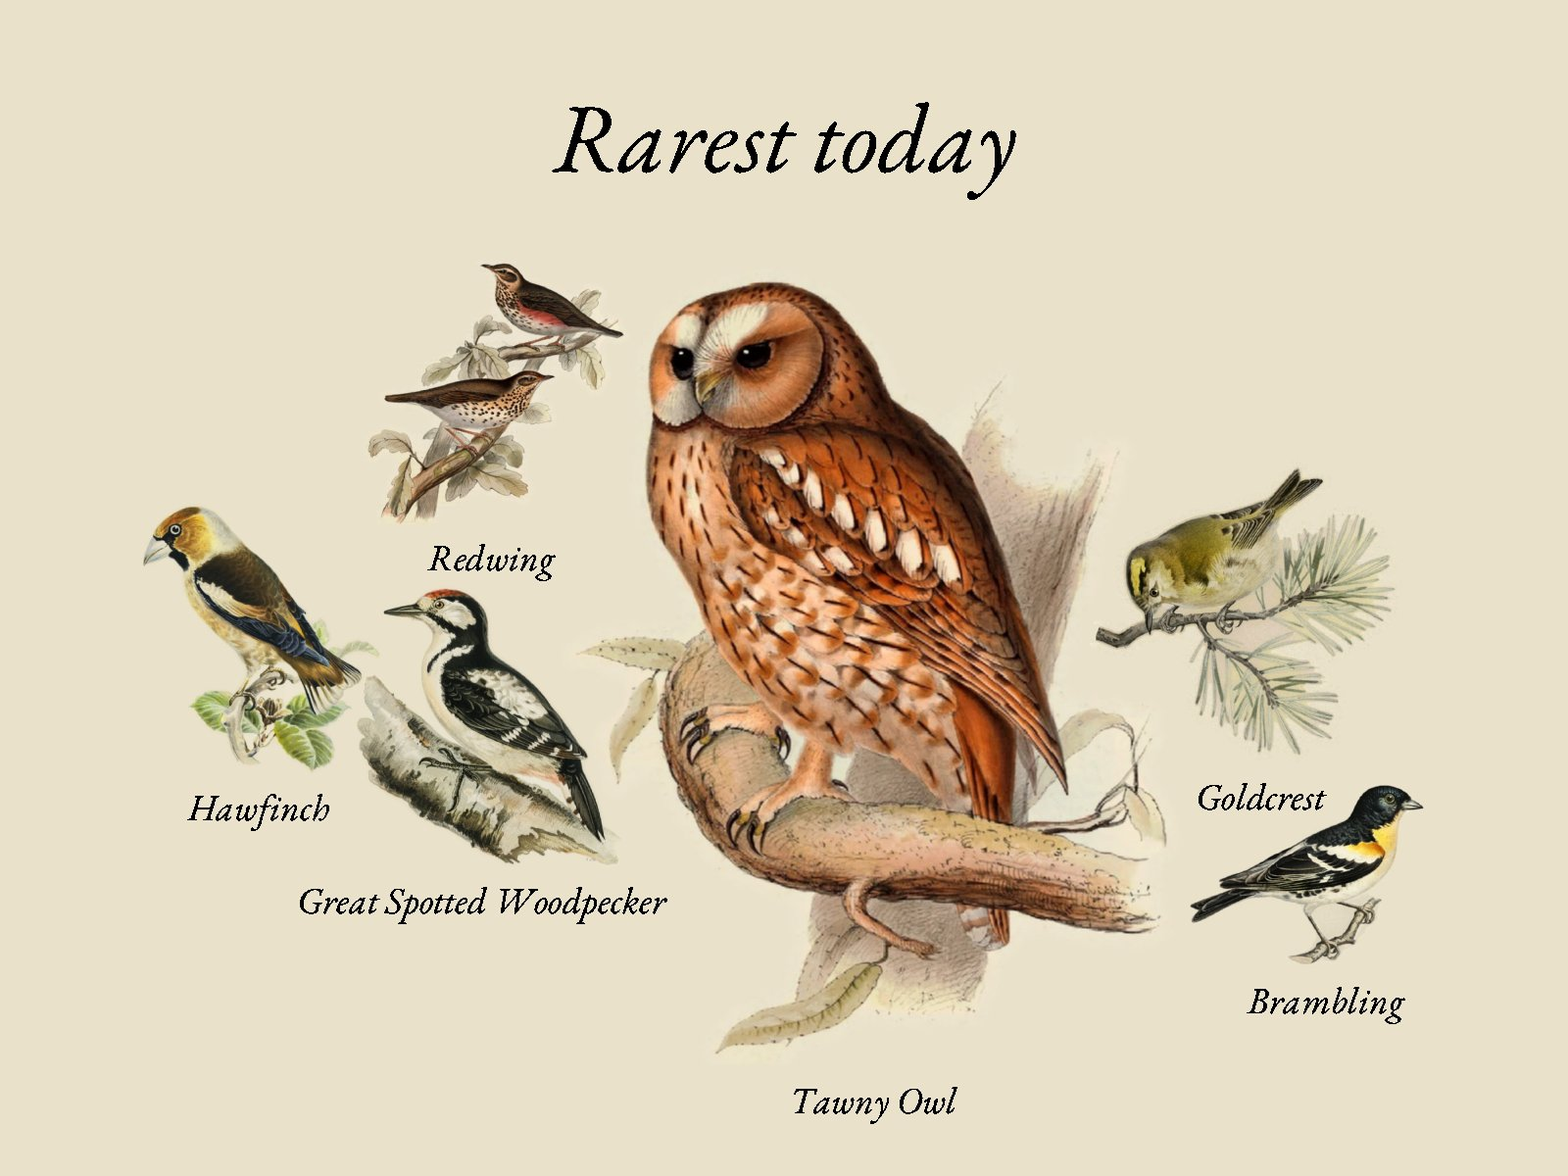
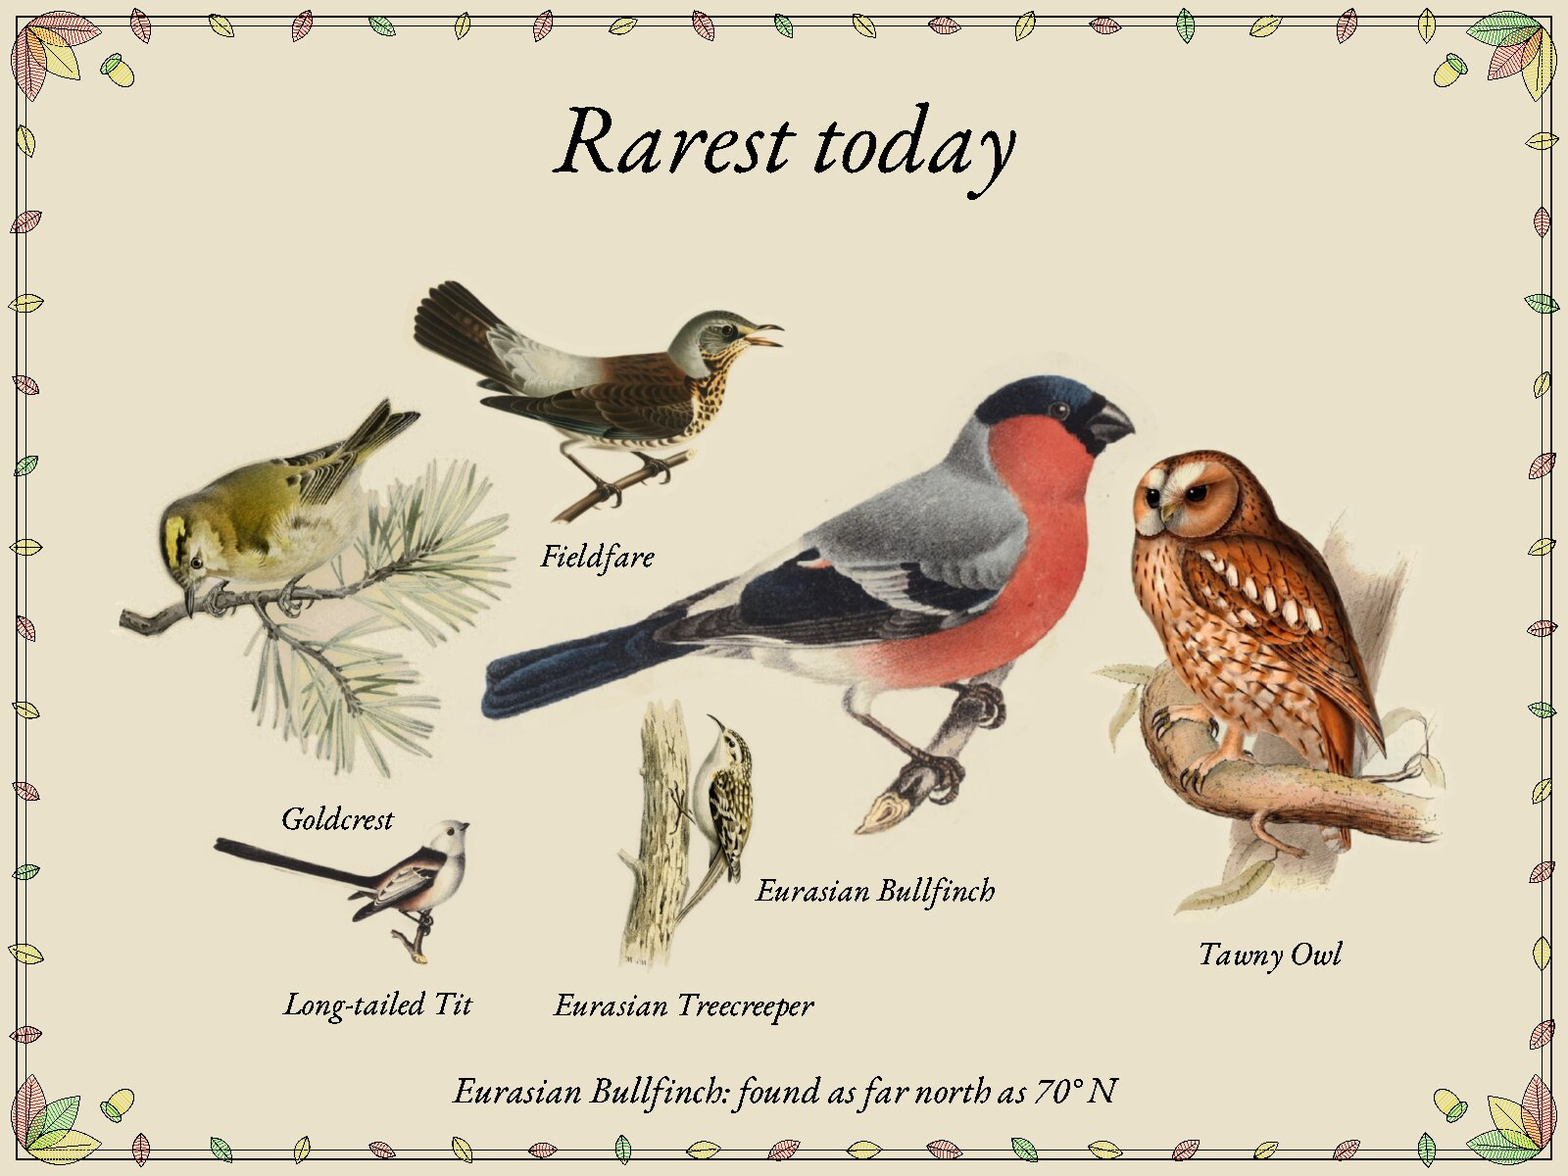
Document facts, borders and the standalone buttons; redraw the screenshots
Claude-Session: https://claude.ai/code/session_01JrPyac6u1bGByCUQXqRrnt

diff --git a/README.md b/README.md
@@ -25,8 +25,11 @@ fugleramme does, and sized as big as the page allows so the cluster reaches its 
 
 Besides today's birds, a frame can show the week, today's rarest birds, the day's story and the
 year so far (`view=`), each frame its own layout and page (`FRAMES`). A bird new for the year is
-drawn first and biggest, and frames wake every 5 minutes while it is about. Frames report
-battery and last wake to Home Assistant. See [Pages and views](docs/explanation/pages-and-views.md).
+drawn first and biggest, and frames wake every 5 minutes while it is about. The bird pages end
+with a fun fact about their main bird (from a table built in, no cloud), and every page wears an
+engraved seasonal border: frost, blossom, a summer meadow, autumn leaves, and holly, Easter
+feathers or a Midsummer garland on those holidays. On every ESP32 frame the previous and next
+buttons step through all five pages. Frames report battery and last wake to Home Assistant. See [Pages and views](docs/explanation/pages-and-views.md).
 
 | The day so far | The year so far |
 | --- | --- |
@@ -148,7 +151,8 @@ driving the panel, or on the ESP32 itself.
 | `crates/art-webp` | fugleramme's art folders: a plate per species per day, paper halo toned and feathered | Done |
 | `crates/page-text` | `no_std` + `alloc`: the page's words in a dozen languages, from a translations JSON | Done |
 | `crates/bird-sizes` | `no_std`: AVONET body masses for the 6,421 species BirdNET detects | Done |
-| `crates/frame-layout` | `no_std` + `alloc`: what goes where; the collage's spiral packing by outline, out to the page's corners; the story chart and season page | Collage, list, story and season done |
+| `crates/bird-facts` | `no_std`: a few facts per species from AVONET and Wikidata, one told a day | Done |
+| `crates/frame-layout` | `no_std` + `alloc`: what goes where; the collage's spiral packing by outline, out to the page's corners; the story chart and season page; the seasonal borders | Collage, list, story, season and borders done |
 | `crates/bird-almanac` | `no_std` + `alloc`: new birds for the year, arrivals, the rarest, year on year, the day's story | Done |
 | `crates/open-meteo` | `no_std` + `alloc`: today's weather from Open-Meteo, keyless | Done |
 | `crates/home-assistant` | Frames as Home Assistant devices over MQTT discovery, with a small MQTT publisher | Done |
@@ -166,7 +170,7 @@ driving the panel, or on the ESP32 itself.
 | `crates/panel-ed2208` | `no_std`: the 7.3" panel's controller over `embedded-hal` 1.0, tested against a mock bus | Done; untried on hardware |
 | `crates/glass-esp` | Each ESP32-S3 board's panel pins, power and deep-sleep pin holds, for the EE02 and the reTerminal E1002 | Builds; untried on hardware |
 | `tools/art-packer` | Packs fugleramme's plates into one bundle, about 30 KB a species, for an ESP32's flash | Done |
-| `apps/ee02-standalone` | ESP32-S3 firmware with no server: asks BirdNET-Go and draws the page itself, art in flash; EE02 or reTerminal E1002 | Builds for both boards; untried on hardware |
+| `apps/ee02-standalone` | ESP32-S3 firmware with no server: asks BirdNET-Go and draws the page itself, art in flash, buttons stepping through all five pages; EE02 or reTerminal E1002 | Builds for both boards; untried on hardware |
 | `apps/linux-panel` | A Raspberry Pi driving the panel over SPI, with no server | Done; tested on a mock bus, untried on a panel |
 | `assets/` | Fonts, each with its licence and an `ATTRIBUTION.md` | |
 | `deploy/` | Dockerfile, Unraid template | |
@@ -194,6 +198,8 @@ The server is configured with environment variables:
 | `MAX_BIRDS` | `0` | Most birds on a page; `0` for every bird heard |
 | `NAMES` | `true` | Whether the collage writes each bird's name under it |
 | `HEADING` | unset | A heading over the page; the collage has none by default, like fugleramme |
+| `FACTS` | `true` | Whether today's, the week's and the rarest page end with a line about their main bird |
+| `BORDER` | `season` | The engraved border: `season` (by date and holiday), `off`, or one theme, e.g. `frost` |
 | `LANGUAGE` | `en` | Language of the page's own words, e.g. `sv`, `nb`, `de` (bird names come from BirdNET-Go) |
 | `TRANSLATIONS` | unset | A translations JSON adding languages or overriding words |
 | `VIEW` | `today` | Page for frames that do not ask: `today`, `week`, `rarest`, `story` or `season` |
@@ -291,6 +297,8 @@ Formatting and the lints it names are enforced in CI (see `rustfmt.toml` and the
 - **AVONET** (Tobias et al. 2022, *Ecology Letters*,
   [doi:10.1111/ele.13898](https://doi.org/10.1111/ele.13898)): bird body masses, CC BY 4.0,
   via fugleramme's table (`crates/bird-sizes/data/`). The size exponent (0.14) is fugleramme's.
+  AVONET's ranges, migration, diet and lifestyle, with wingspans, incubation and lifespans from
+  **[Wikidata](https://www.wikidata.org/)** (CC0), make the fun facts (`crates/bird-facts/data/`).
 - **[OpenFauna](https://github.com/tphakala/openfauna)**: scientific-name aliases, CC BY-SA 4.0.
 
 Full notices are in [`NOTICE.md`](NOTICE.md).

diff --git a/docs/explanation/pages-and-views.md b/docs/explanation/pages-and-views.md
@@ -1,7 +1,8 @@
 # Pages and views
 
-A frame can show five pages. It asks for one with `view=`; the EE02's button cycles through them,
-and each frame in `FRAMES` has a default. Every page is drawn for whatever panel or screen asks,
+A frame can show five pages. It asks for one with `view=`; the previous and next buttons of the
+EE02, the reTerminal E1002 and the standalone firmware step through all five (see
+[Firmware: Buttons](../reference/firmware.md#buttons)), and each frame in `FRAMES` has a default. Every page is drawn for whatever panel or screen asks,
 in the frame's layout where the page has birds on it.
 
 | View | Shows | From BirdNET-Go |
@@ -58,7 +59,7 @@ out.
 
 ## The season
 
-![The season page: 37 species this year, two spring arrivals, this week against last year's, and the numbered year list](../images/view-season.png)
+![The season page on 1 May in spring's blossom border: 39 species this year, three spring arrivals, this week against last year's, and the numbered year list](../images/view-season.png)
 
 - **Just arrived** lists the birds heard in the last 21 days that were not heard in the 60 days
   before: spring's migrants, autumn's winter thrushes, and rarities.
@@ -66,6 +67,56 @@ out.
   earlier, and names a few birds heard only now or only then.
 - **Year list** numbers every species heard this year in the order they were first heard, like
   a birder's notebook. A long list is set smaller, then cut short with "and N more".
+
+## A fact about the main bird
+
+![Today's collage in autumn's border, with a line about the great tit at its foot](../images/view-today.jpg)
+
+Today's, the week's and the rarest page end with one line about their main bird, the one drawn
+first: a bird new for the year, the rarest, or else the most heard. Each species has up to ten
+facts, and the line tells a different one each day, in an order of the species' own, so it
+changes daily but not between wakes:
+
+| Fact | Example | Source |
+| --- | --- | --- |
+| Weight, in sugar cubes of 4 g | Great Tit: weighs about 16 g, as much as 4 sugar cubes | AVONET |
+| Wingspan | Eurasian Magpie: 56 cm from wingtip to wingtip | Wikidata |
+| Incubation | Eurasian Blackbird: the eggs hatch after about 13 days | Wikidata |
+| Oldest known | House Sparrow: the oldest one known lived 19 years | Wikidata |
+| Range, against Europe | Great Tit: its range is 3 times the size of Europe | AVONET |
+| How far north or south | Great Tit: found as far north as 71° N | AVONET |
+| Migration | Common Swift: a migrant, with a summer home and a winter one | AVONET |
+| Diet | Eurasian Bullfinch: eats almost anything | AVONET |
+| Where it lives | Common Swift: spends most of its life on the wing | AVONET |
+
+The table is built into the server and the standalone firmware (`crates/bird-facts`, about
+260 KB); nothing is looked up online. Its sources, AVONET (CC BY 4.0) and Wikidata (CC0), are
+credited in `crates/bird-facts/data/ATTRIBUTION.md` and NOTICE.md, never on the page. The words
+are in English and Swedish; other languages fall back to English until translated (keys
+`fact_*` and `food_*` in [Translations](../reference/configuration.md#translations)). `FACTS=false`
+turns the line off.
+
+## Seasonal borders
+
+![The seven borders on a portrait page: frost, blossom, meadow, autumn, Christmas, Easter and Midsummer](../images/borders.jpg)
+
+Every page wears a border engraved like the plates: a double hairline rule and, along it, motifs
+outlined in black and hatched in the panel's other inks. It changes with the date:
+
+| Border | When | Drawn in |
+| --- | --- | --- |
+| Frost | December to February | Blue snow crystals and frost ferns creeping from the corners |
+| Blossom | March to May | A flowering branch from two corners, petals drifting along the edges |
+| Meadow | June to August | Grasses, daisies, cornflowers and poppies along the foot, butterflies above |
+| Autumn | September to November | Falling leaves in red, yellow and green, acorns in the corners |
+| Christmas | 13 December (Lucia) to 6 January | Holly and red berries |
+| Easter | Palm Sunday to Easter Monday | Birch twigs hung with coloured feathers, eggs in the grass |
+| Midsummer | 19 to 25 June | A garland of flowers and birch leaves |
+
+The border is drawn procedurally (`crates/frame-layout/src/season_border.rs`), stays in the page's
+outer few percent, and is drawn under the birds and the words. South of the equator (a negative
+`LATITUDE`) the seasons come round half a year apart and Midsummer is not kept in June.
+`BORDER=off` leaves it off; a theme's name keeps that one all year.
 
 ## What it costs BirdNET-Go
 

diff --git a/docs/reference/crates.md b/docs/reference/crates.md
@@ -11,15 +11,16 @@
 | `transport-lan` | no | `HttpTransport` for Linux, macOS, Windows | `LanTransport` |
 | `art-pack` | yes (alloc) | Bird cut-outs, their `.artp` format, bundles of them for flash, no art, and plain ovals for tests | `ArtImage`, `ArtSource`, `ArtBundle`, `NoArt`, `OutlineArt`, `Rgba`, `Subject` |
 | `art-webp` | no | fugleramme's art folders: plate per day, paper halo toned and feathered | `ArtFolder` |
-| `bird-sizes` | yes | AVONET body masses for BirdNET's species | `BirdSizes` |
+| `bird-sizes` | yes | AVONET body masses for BirdNET's species, and the name-keyed table they and the facts are read with | `BirdSizes`, `NameTable` |
+| `bird-facts` | yes | A few facts per species (AVONET and Wikidata, built in), one told a day about a page's main bird | `BirdFacts`, `Fact` |
 | `page-text` | yes (alloc) | The page's words in a dozen languages, from a translations JSON | `Translations`, `PageText` |
-| `frame-layout` | yes (alloc) | Page layout as data; the collage's spiral packing by outline | `PageLayout`, `Collage`, `Silhouette`, `TextList`, `StoryPage`, `SeasonPage`, `ImageBlock`, `ShapeBlock`, `TextBlock`, `size_weights` |
+| `frame-layout` | yes (alloc) | Page layout as data; the collage's spiral packing by outline; the seasonal border, engraved as pen marks | `PageLayout`, `Collage`, `Silhouette`, `TextList`, `StoryPage`, `SeasonPage`, `SeasonBorder`, `BorderTheme`, `Border`, `PenMark`, `ImageBlock`, `ShapeBlock`, `TextBlock`, `size_weights` |
 | `frame-raster` | yes (alloc) | Drawing, the panel boost, and dithering | `Renderer`, `Canvas`, `pop`, `dither` |
-| `frame-artist` | yes (alloc) | Draws the page for a list of birds: layout choice, pictures, sizes, a featured bird, the story and season pages, and the panel's bytes. Shared by the server and the apps that draw their own page | `Artist`, `PageStyle`, `Layout`, `PageView`, `DayFacts`, `YearFacts`, `panel_bytes` |
+| `frame-artist` | yes (alloc) | Draws the page for a list of birds: layout choice, pictures, sizes, a featured bird, the story and season pages, which page each view shows, the fact line and the border, and the panel's bytes. Shared by the server and the apps that draw their own page | `Artist`, `PageStyle`, `Layout`, `PageView`, `ViewData`, `DayFacts`, `YearFacts`, `fun_fact`, `panel_bytes` |
 | `bird-almanac` | yes (alloc) | What longer windows say: birds new for the year, arrivals after an absence, the rarest of today's birds, this week against last year's, and the day's story | `Almanac`, `Arrival`, `YearOnYear`, `DayStory` |
 | `open-meteo` | yes (alloc) | Today's weather from Open-Meteo's free forecast API, over any `HttpTransport` | `OpenMeteo`, `Weather`, `Sky` |
 | `home-assistant` | no | Announces frames to Home Assistant: just enough MQTT 3.1.1 to publish, and the discovery messages | `mqtt::publish`, `discovery::frame_messages` |
-| `frame-standalone` | yes (alloc) | The decisions of a frame that draws its own page: whether the birds changed, the request to BirdNET-Go and reading its answer and `Date`, what to keep in RTC memory and how long to sleep | `Fingerprint`, `birdnet_request`, `BirdnetAnswer`, `http_date::parse`, `StandaloneMemory` |
+| `frame-standalone` | yes (alloc) | The decisions of a frame that draws its own page: whether the birds changed, the request to BirdNET-Go and reading its answer and `Date`, what each page asks for and makes of the answers, what to keep in RTC memory (the page the buttons chose included) and how long to sleep | `Fingerprint`, `birdnet_request`, `BirdnetAnswer`, `http_date::parse`, `ViewFetch`, `StandaloneMemory` |
 | `frame-http` | no | HTTP endpoints, PNG and zlib encoding | `FrameServer`, `PageStore`, `RenderedPage`, `PanelBody`, `Target`, `FrameLog`, `query_value` |
 | `panel-t133a01` | yes | The 13.3" Spectra 6 panel's two controllers on `embedded-hal` 1.0 | `T133a01`, `Pins`, `PanelError` |
 | `panel-ed2208` | yes | The 7.3" Spectra 6 panel's ED2208 controller on `embedded-hal` 1.0 (reTerminal E1002, Waveshare 7.3" (E)) | `Ed2208`, `Pins`, `PanelError` |

diff --git a/docs/reference/configuration.md b/docs/reference/configuration.md
@@ -19,6 +19,8 @@ The server reads environment variables at start-up.
 | `LAYOUT` | `collage` | `collage` or `list` | `collage` packs a picture of every bird by its outline, heavier birds bigger. `list` writes names and counts only. |
 | `MAX_BIRDS` | `0` | number | Most birds on a page, most heard first. `0` shows every bird heard, as fugleramme does. |
 | `NAMES` | `true` | `true` or `false` | Whether the collage writes each bird's name under it. |
+| `FACTS` | `true` | `true` or `false` | Whether today's, the week's and the rarest page end with one line about their main bird (the first one: a bird new for the year, the rarest, or the most heard), a different fact each day. From a table built into the server; nothing is looked up online. See [Pages and views](../explanation/pages-and-views.md#a-fact-about-the-main-bird). |
+| `BORDER` | `season` | `season`, `off`, or a theme | The engraved border round every page. `season` follows the date: frost in winter, blossom in spring, a meadow in summer, falling leaves in autumn, and holly, Easter feathers or a Midsummer garland on those holidays. A theme's name (`frost`, `blossom`, `meadow`, `autumn`, `christmas`, `easter`, `midsummer`) keeps that one all year. A negative `LATITUDE` turns the seasons round. See [Pages and views](../explanation/pages-and-views.md#seasonal-borders). |
 | `HEADING` | unset | text | A heading over the page. Unset: none on the collage (birds only, like fugleramme), the translated "Heard in the garden" on the list. |
 | `LANGUAGE` | `en` | language code | Language of the page's own words (heading, "No birds heard yet", "Updated 07:30"), e.g. `sv`, `nb`, `de`, `pt-BR`. A regional code falls back to its main language, then to English. Bird names come from BirdNET-Go in its own language setting. |
 | `TRANSLATIONS` | unset | file | A translations JSON adding languages or overriding words; see below. |
@@ -53,6 +55,8 @@ FRAMES=hall:layout=collage;desk:layout=list,panel=7.3,rotation=90,view=story,max
 | `max_birds` | number, `0` for all | `MAX_BIRDS` |
 | `names` | `true`, `false` | `NAMES` |
 | `heading` | text without `,` or `;` | `HEADING` |
+| `facts` | `true`, `false` | `FACTS` |
+| `border` | `season`, `off`, or a theme | `BORDER` |
 
 A frame asks with `frame=<name>`, set on its setup page. A frame that gives no name, or a name not
 in `FRAMES`, gets the server's own settings.
@@ -92,6 +96,17 @@ file named by `TRANSLATIONS` has the same shape and wins word by word, so it can
 | `weather` | The weather line | `{sky}`, `{now}`, `{low}`, `{high}` |
 | `sunrise`, `sunset` | Marks on the chart | |
 | `sky_clear`, `sky_partly_cloudy`, `sky_overcast`, `sky_fog`, `sky_drizzle`, `sky_rain`, `sky_snow`, `sky_thunder`, `sky_unknown` | What the sky is doing | |
+| `fact_line` | The line about the main bird | `{name}`, `{fact}` |
+| `fact_weight`, `fact_weight_one` | Its weight, in sugar cubes (`_one` for about one) | `{weight}`, `{count}` |
+| `fact_wingspan` | Its wingspan | `{cm}` |
+| `fact_incubation` | Days its eggs take to hatch | `{days}` |
+| `fact_oldest` | The oldest one known | `{years}` |
+| `fact_range`, `fact_range_millions`, `fact_range_europe` | Its range in km², in millions of km², or in Europes | `{area}`, `{millions}`, `{times}` |
+| `fact_north`, `fact_south` | How far north or south it is found | `{degrees}` |
+| `fact_resident`, `fact_partial`, `fact_migrant` | Whether it migrates | |
+| `fact_diet`, `fact_omnivore` | What it eats; `fact_diet` takes one of the `food_` words | `{food}` |
+| `food_invertebrates`, `food_seeds`, `food_fruit`, `food_nectar`, `food_plants`, `food_water_plants`, `food_water_animals`, `food_vertebrates`, `food_carrion` | Foods, for `fact_diet` | |
+| `fact_aerial`, `fact_aquatic`, `fact_terrestrial`, `fact_perching` | Where it spends its time | |
 | `season_heading` | Heading of the season page | |
 | `year_count` | Species this year | `{count}` |
 | `arrivals`, `no_arrivals` | The arrivals column, and its line when it is empty | |

diff --git a/docs/how-to/flash-ee02-standalone.md b/docs/how-to/flash-ee02-standalone.md
@@ -10,10 +10,11 @@ not run a container beside. It runs on two boards:
 | Seeed XIAO ePaper Display Board EE02 | 13.3" Spectra 6, 1600x1200 | the default |
 | Seeed reTerminal E1002 | 7.3" Spectra 6, 800x480 | `--no-default-features --features board-e1002` |
 
-What it gives up against [the thin firmware](flash-ee02-thin.md) and the server: no setup
-hotspot (the settings are built in), no over-the-air updates, no buttons or other pages (the
-story and season pages need the server's longer history), no weather, no Home Assistant, and no
-login to a private BirdNET-Go. The 13.3" page is drawn at half size and enlarged when it is
+Its three buttons step through the same five pages the server draws (today, the week, the
+rarest, the day's story and the season), as on [the thin firmware](flash-ee02-thin.md): see
+[Buttons](#buttons) below. What it gives up against the thin firmware and the server: no setup
+hotspot (the settings are built in), no over-the-air updates, no weather or new-bird alert (they
+need the server), no Home Assistant, and no login to a private BirdNET-Go. The 13.3" page is drawn at half size and enlarged when it is
 dithered, so it is a little softer than the server's.
 
 > The firmware compiles in CI and its logic and drawing are tested on a laptop, but it has not
@@ -68,6 +69,8 @@ The rest are optional:
 | `FRAME_WINDOW_HOURS` | `24` | How far back detections count |
 | `FRAME_MAX_BIRDS` | `12` | Most birds on the page; each one's picture is held while drawing |
 | `FRAME_NAMES` | `true` | Whether the collage names its birds |
+| `FRAME_FACTS` | `true` | Whether the bird pages end with a line about their main bird, as `FACTS` on the server |
+| `FRAME_BORDER` | `season` | The border, as `BORDER` on the server: `season`, `off` or a theme |
 
 A password built in ends up in the firmware image, so treat the built file like the password.
 
@@ -99,3 +102,23 @@ as the one on the glass, it goes straight back to sleep: `the page has not chang
 
 After a failure the picture stays and the frame tries again in a minute, doubling after each
 failure in a row up to the poll interval.
+
+## Buttons
+
+The buttons and their pins are the thin firmware's (see
+[Firmware: Buttons](../reference/firmware.md#buttons)): on the EE02 refresh, previous and next
+are GPIO2, 3 and 5; on the E1002 the green, left and right buttons, GPIO3, 5 and 4. Each wakes
+the frame from deep sleep.
+
+| Button | Press |
+| --- | --- |
+| Refresh | Draws the page again now |
+| Previous | Steps to the previous page and draws it |
+| Next | Steps to the next page and draws it |
+
+The pages go round today, week, rarest, story, season. The chosen page is kept in RTC memory,
+so the frame keeps showing it, updated each wake, until a button changes it. Each page asks
+BirdNET-Go only for what it shows: today's page is one request, the story two and its hourly
+counts, the season five (the year so far, this week, the same week last year, and two windows
+for arrivals). Holding refresh does nothing special: there is no setup hotspot.
+

diff --git a/NOTICE.md b/NOTICE.md
@@ -76,6 +76,11 @@ CC BY-NC-SA 4.0: https://github.com/tphakala/birdnet-go
   Included as `crates/bird-sizes/data/bird_sizes.csv`, taken from fugleramme's
   `assets/bird_sizes.csv`, filtered to the species in BirdNET's v2.4 labels and rounded to three
   significant figures (see the `ATTRIBUTION.md` beside it).
+- AVONET range sizes, latitudes, migration, trophic niche and lifestyle (same citation and
+  licence), from its `AVONET2_eBird.xlsx` and `AVONET1_BirdLife.csv`, and Wikidata's wingspans,
+  incubation periods and longest observed lifespans (https://www.wikidata.org/, CC0 1.0):
+  included as `crates/bird-facts/data/bird_facts.csv`, built by `build_bird_facts.py` beside it
+  (see the `ATTRIBUTION.md` there for the changes made).
 - OpenFauna scientific-name aliases: https://github.com/tphakala/openfauna, CC BY-SA 4.0.
 
 ## Fonts

diff --git a/docs/reference/firmware.md b/docs/reference/firmware.md
@@ -64,7 +64,10 @@ three are pulled up, read low when pressed, and wake the frame from deep sleep (
 | Next (KEY3) | 5 | Steps to the next view and fetches it | |
 
 The views go round in this order and are sent as `view=`; `today` is the server's default and is
-not sent. The chosen view is kept in RTC memory until a button changes it.
+not sent. The chosen view is kept in RTC memory until a button changes it. The list is every
+page the server draws: a test in `frame-standalone` fails if the two ever differ. The
+reTerminal E1002 build has the same three buttons and cycle, and so has the
+[standalone firmware](../how-to/flash-ee02-standalone.md#buttons), which draws each page itself.
 
 | `view=` | Page |
 | --- | --- |
